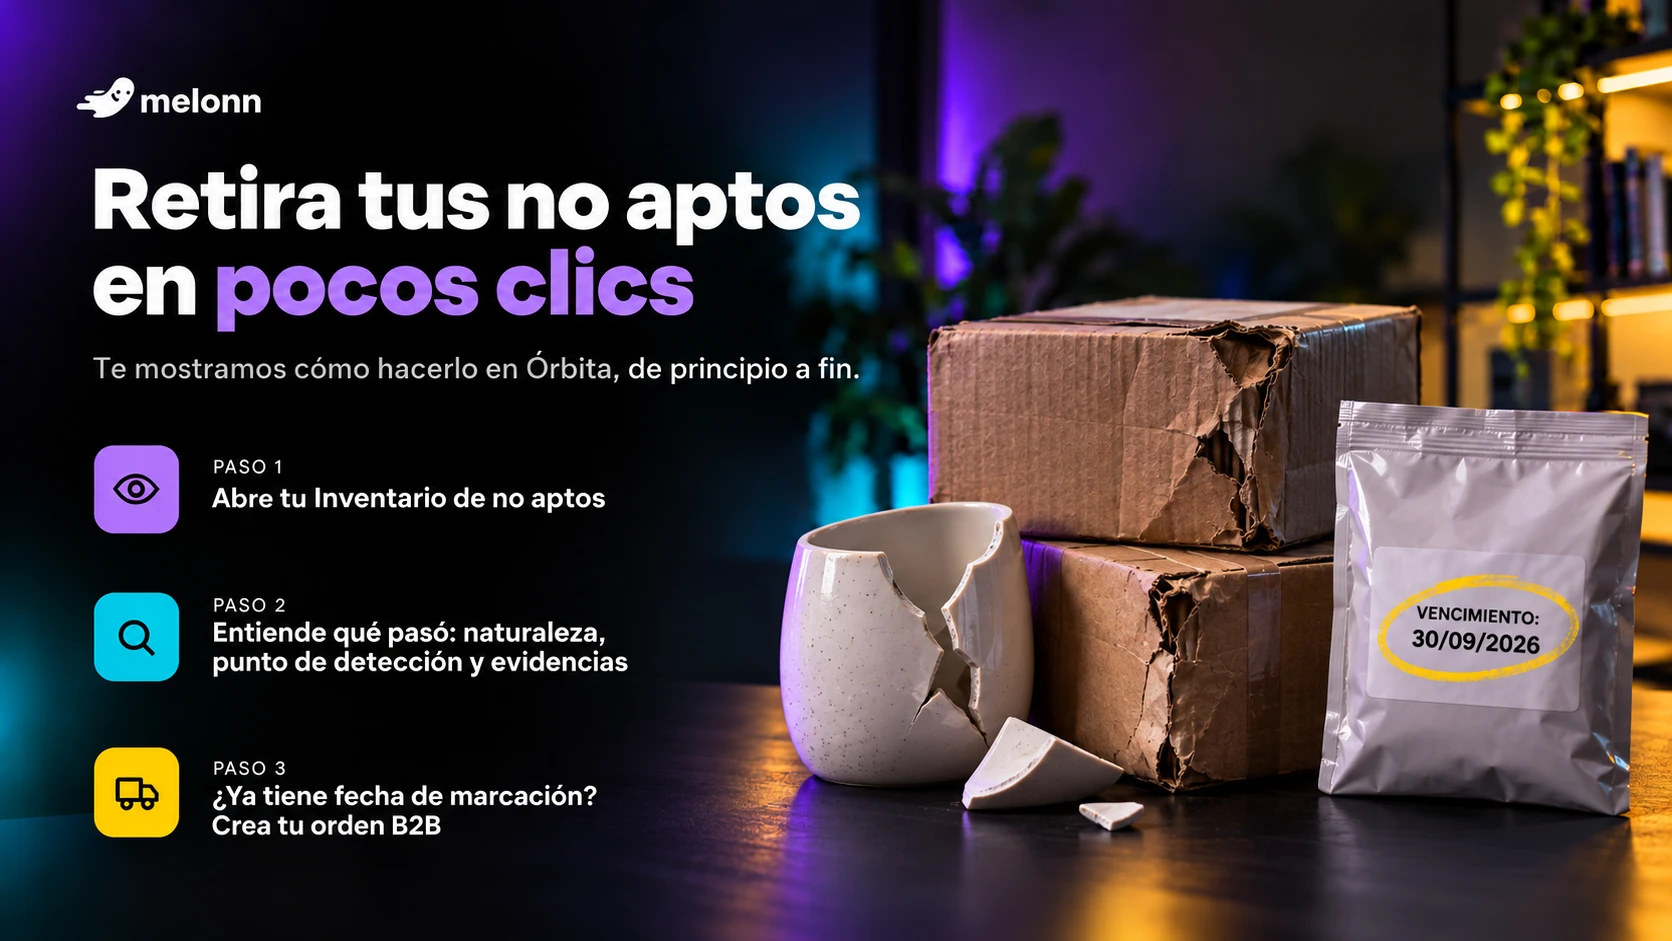
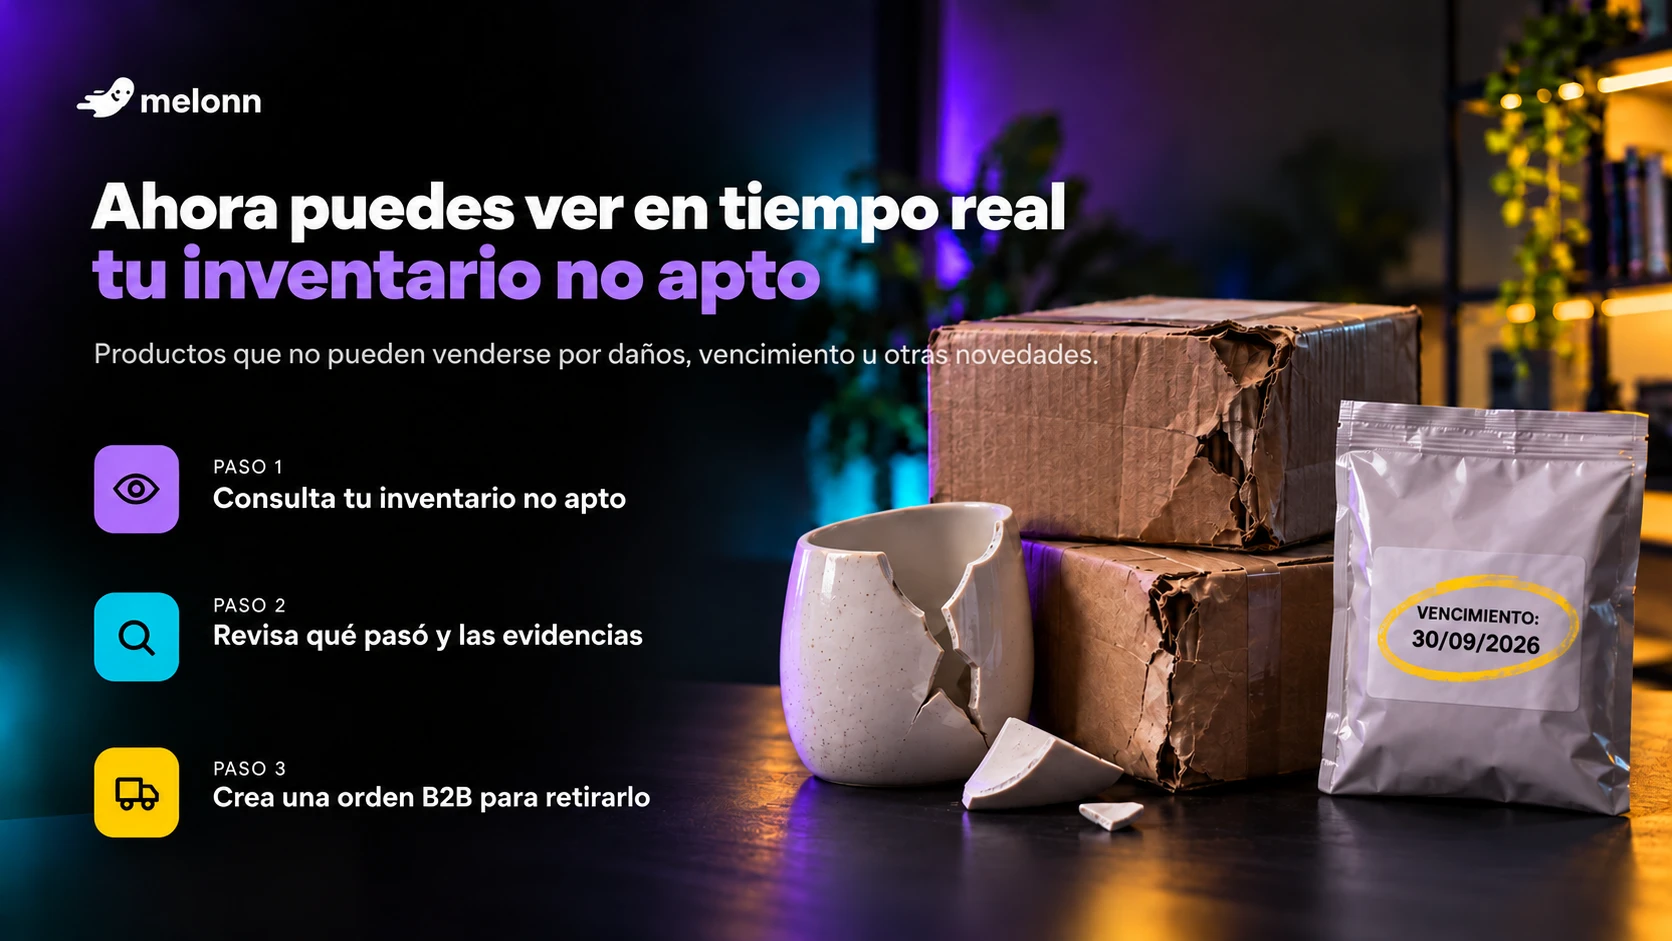
feat: no-aptos, imagen nueva del panel: Ahora puedes ver en tiempo real tu inventario no apto

diff --git a/lanzamientos/no-aptos.html b/lanzamientos/no-aptos.html
@@ -1039,7 +1039,7 @@ header.hero .hero-foot{animation:hero-in 700ms cubic-bezier(.22,1,.36,1) 560ms b
     <div class="panel-preview">
       <div class="callout">
         <div class="callout-img-wrap">
-          <img class="callout-img" src="../IMAGE/LANZAMIENTOS/NO_APTOS/Banner_No_Aptos.webp?v=1" alt="Retira tus no aptos en pocos clics: abre tu Inventario de no aptos, entiende qué pasó y crea tu orden B2B" loading="eager" />
+          <img class="callout-img" src="../IMAGE/LANZAMIENTOS/NO_APTOS/Banner_No_Aptos.webp?v=2" alt="Ahora puedes ver en tiempo real tu inventario no apto: consulta tu inventario, revisa qué pasó y las evidencias, y crea una orden B2B para retirarlo" loading="eager" />
         </div>
         <div class="callout-inner" style="display:flex;flex-direction:row;align-items:center;gap:36px">
           <div class="callout-mark">
